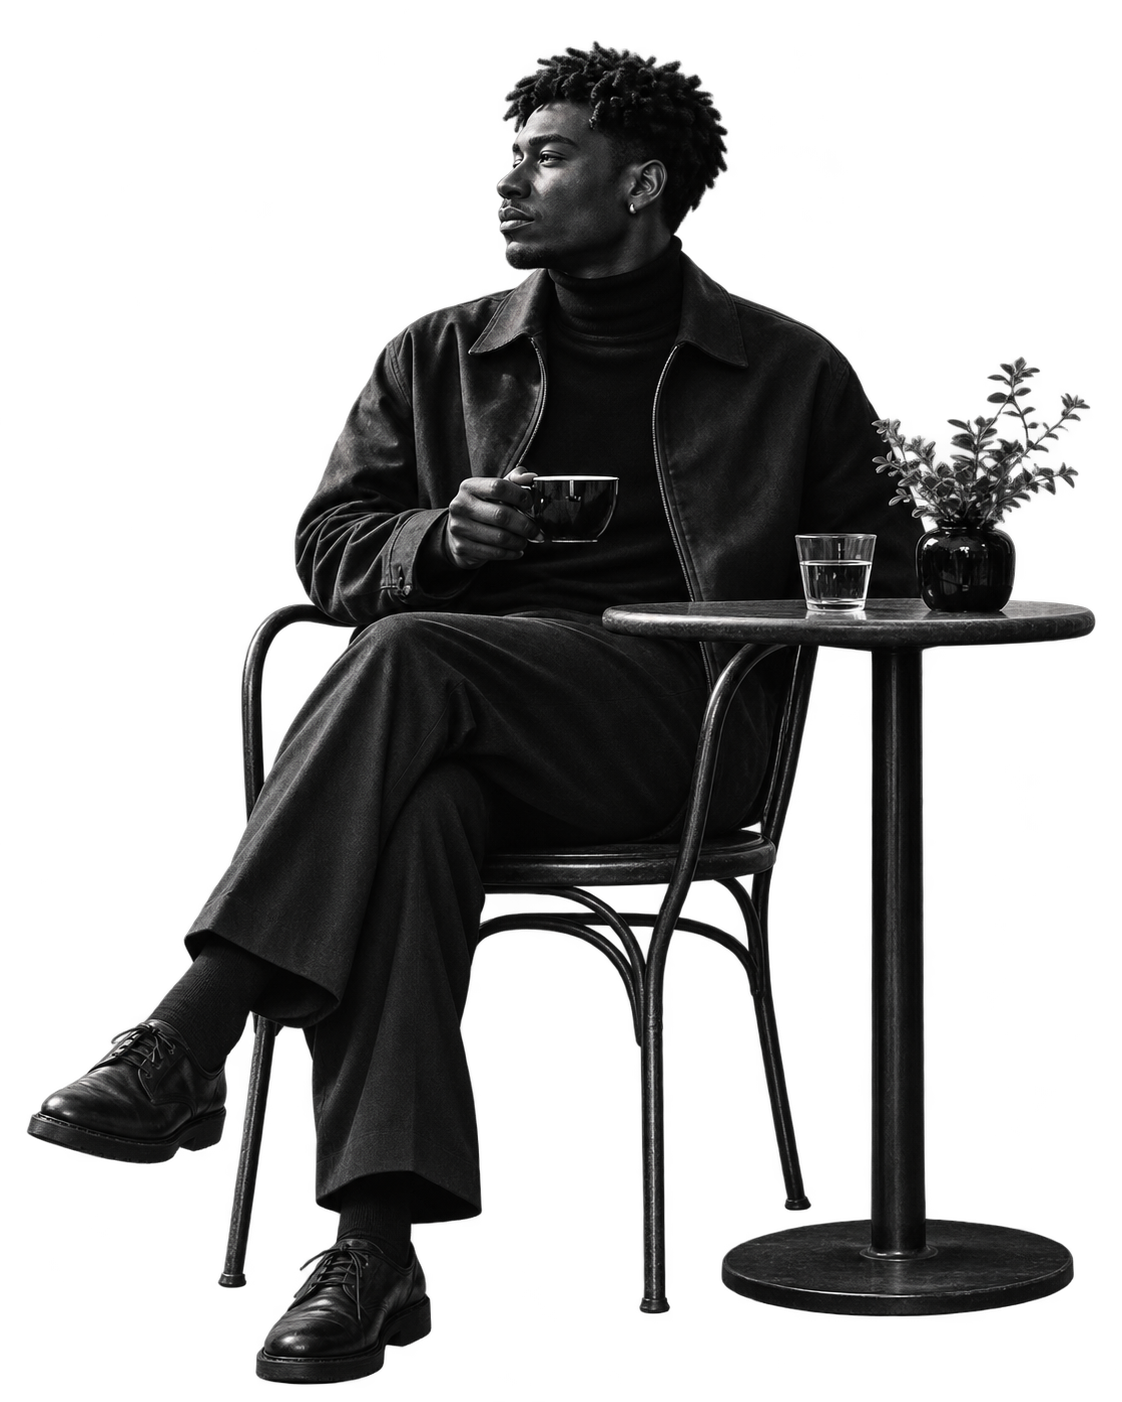
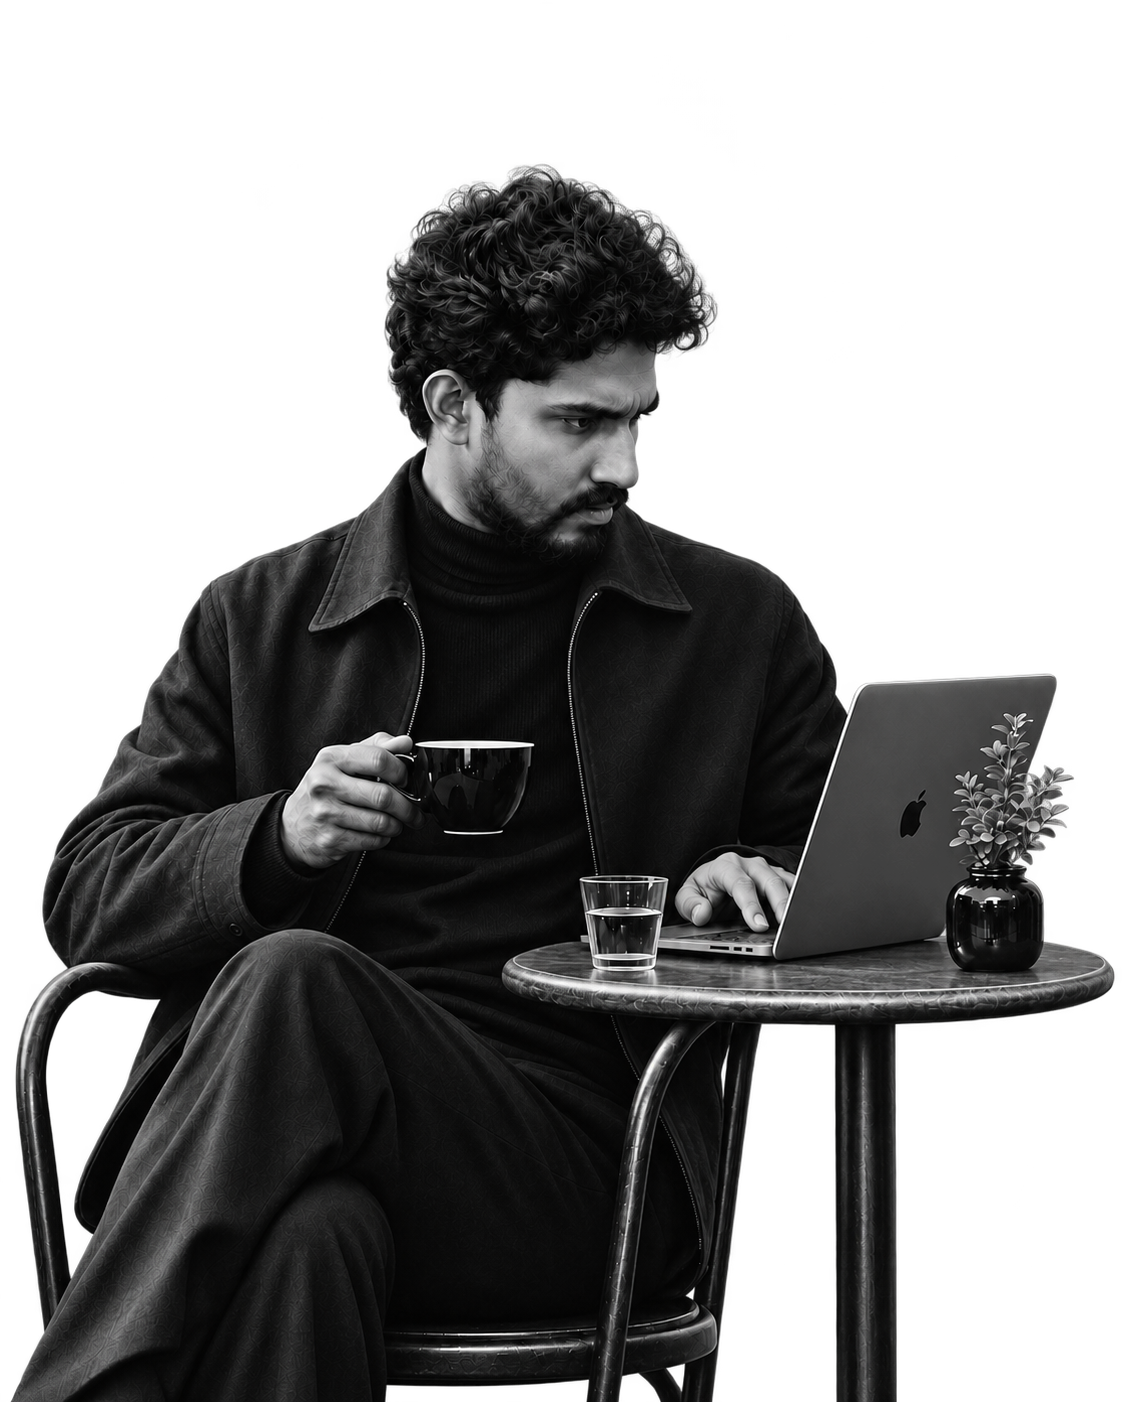
Replace hero portrait with own café photo
Swap the placeholder portrait for a transparent cutout of my photo
and update its alt text and caption.

diff --git a/src/data/site.ts b/src/data/site.ts
@@ -17,16 +17,16 @@ export const site = {
   linkedin: "",
 };
 
-// The portrait is an editorial placeholder based on the supplied reference.
-// Replace src/assets/hero-portrait.png with your own cutout, then update its alt/note.
+// Hero portrait: a transparent café cutout from src/assets/hero-portrait.png.
+// Replace that file to update the photo, then rebuild for production/preview.
 export const hero = {
   headline: "Build",
   outline: "With",
   emphasis: "Purpose.",
   kicker: ["Code. Curiosity.", "Ideas into reality."],
   portrait: heroPortrait,
-  portraitAlt: "Black-and-white café portrait adapted from the design reference, used as a placeholder.",
-  portraitNote: "Reference portrait / placeholder",
+  portraitAlt: "Black-and-white portrait of Wishavjith working on a laptop at a café table, holding a cup of coffee.",
+  portraitNote: "Ideas, coffee & code",
   sideNote: "Ideas → Code → Experiences",
 };
 
